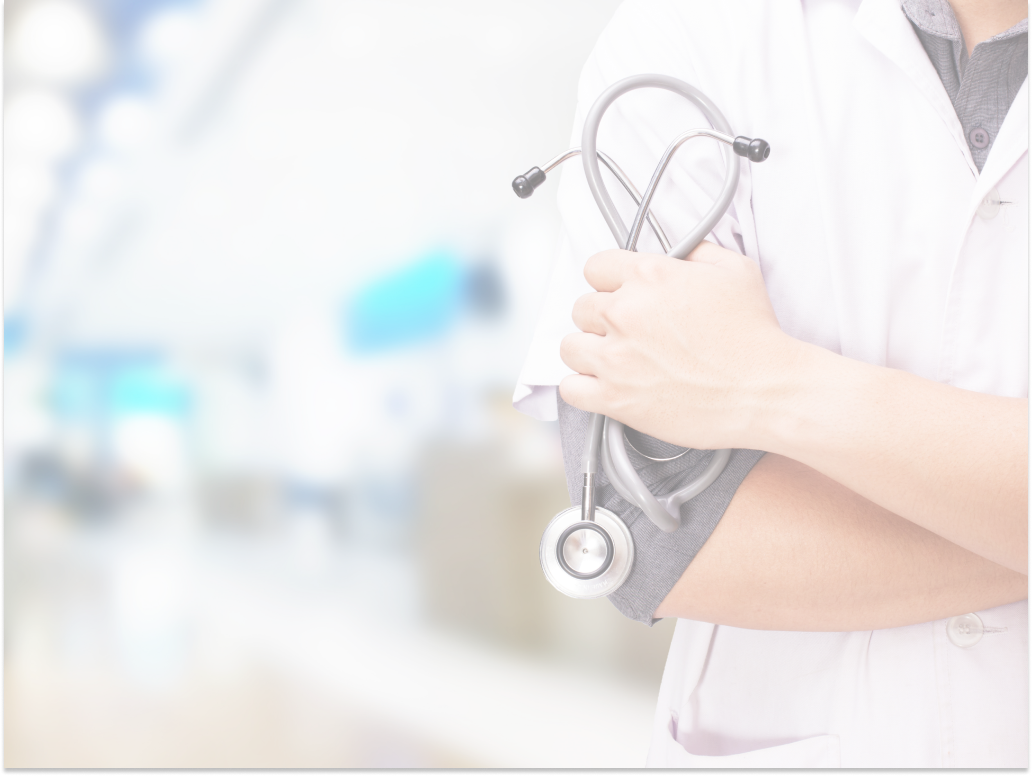
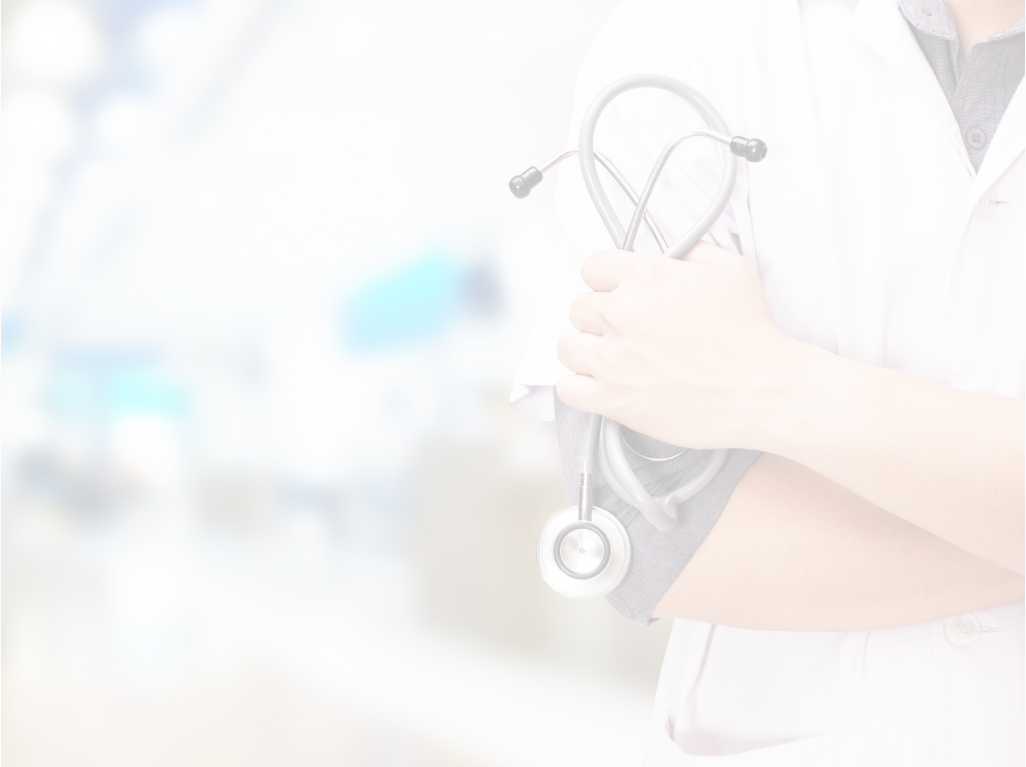
feat: init state home

diff --git a/sucum-web/src/screens/home/home.css b/sucum-web/src/screens/home/home.css
@@ -1,0 +1,142 @@
+.containerHome{
+    z-index: -1;
+    background-position-x: right;
+    height: 100%;
+    position: absolute;
+    left: 50%;
+    width: 50%;
+    height: 100vh;
+    filter: drop-shadow(1px 1px 1px #000);
+    background-image: url('../../assets/background-login.png');
+    background-repeat: no-repeat;
+    background-size: cover;
+    align-items: center;
+    display: flex;
+}
+
+.sectionYellow{
+    z-index: -1;
+    position: absolute;
+    background-color: #D9D9D9;
+    height: 100%;
+    width: 50%;
+}
+
+.navBar{
+    margin-top: 20px;
+    width: 100%;
+    height: 60px;
+    display: flex;
+    background: transparent;
+    position: fixed;
+    z-index: 3;
+}
+
+.iconProfile{
+    position: absolute;
+    width: 150px;
+    height: 40px;
+    margin-right: 10px;
+    background: #ddd;
+    right: 0;
+    display: flex;
+    align-items: center;
+    padding: 5px;
+    gap: 5px;
+    border-radius: 30px;
+}
+.navBarOptions{
+    height: 40px;
+    align-items: center;
+    gap: 20px;
+    display: flex;
+    margin: 0 auto;
+}
+
+.navBarOptions p{
+    font-weight: 600;
+    text-align: left;
+    font-family: sans-serif;
+    font-size: 18px;
+    color: grey;
+}
+
+.iconProfile p{
+    margin-left: 5px;
+    overflow: hidden;
+    text-overflow: ellipsis;
+    width: 100px;
+}
+
+.iconProfile img{
+    width: 40px;
+}
+
+.navBarOptions p.active{
+    color: #044CF6;
+}
+
+.contentText{
+    padding: 60px;
+    width: 40%;
+    position: absolute;
+    height: 400px;
+    margin-top: 5%;
+}
+
+.contentText p{
+    line-height: 40px;
+    text-align: left;
+    font-family: sans-serif;
+    font-size: 24px;
+    color: #044CF6;
+}
+
+.contentText span{
+    display: flex;
+    align-items: center;
+}
+
+.contentText span div{
+    position: absolute;
+    width: 100px;
+    height: 3px;
+    background: yellow;
+    left: -20px;
+}
+
+.contentText span p{
+    margin-left: 40px;
+    font-weight: bold;
+}
+
+.contentText h2{   
+    font-weight: bold;
+    font-size: 32px;
+    font-family: sans-serif;
+    color: #044CF6;
+    margin: 20px 0px 20px 0px;
+}
+
+.contentHelp{
+    left: 40px;
+    width: 50px;
+    height: 50px;
+    background-image: url('../../assets/communication.png');
+    background-repeat: no-repeat;
+    background-size: cover;
+    position: fixed;
+    bottom: 20px;
+}
+.contentHelp:hover{
+    cursor: pointer;
+}
+
+.contentConsultas{
+    margin: 0 auto;
+    position: relative;
+    top: 70%;
+    height: 600px;
+    width: 65%;
+    background: aqua;
+}

diff --git a/sucum-web/src/screens/home/home.js b/sucum-web/src/screens/home/home.js
@@ -1,12 +1,30 @@
 import { isExpired } from "react-jwt";
-import React, { useEffect } from 'react';
+import React, { useEffect, useState } from 'react';
 import { useNavigate } from "react-router-dom";
+import maleIcon from '../../assets/man.png'
+import womanIcon from '../../assets/woman.png'
+import './home.css'
 
 const Home = () => {
   const navigate = useNavigate();
+  const [username, setUsername] = useState('');
+  const [profile, setProfile] = useState('');
+  const [sexo, setSexo] = useState('');
 
   useEffect(() => {
     const token = localStorage.getItem('tokenAuth');
+    const getProfile = localStorage.getItem('profile');
+    const getUsername = localStorage.getItem('username');
+    const getSexo = localStorage.getItem('sexo');
+    if (getSexo != null) {
+      setSexo(getSexo);
+    }
+    if (getProfile != null) {
+      setProfile(getProfile);
+    }
+    if (getUsername != null) {
+      setUsername(getUsername);
+    }
     const expired = isExpired(token);
     if (expired) {
       localStorage.clear();
@@ -15,9 +33,36 @@ const Home = () => {
 }, [navigate])
 
   return (
-    <div>
-      <h2>Home</h2>
-      <p>Welcome to the Home page!</p>
+    <div style={{'height': '100vh'}} >
+      <div className="sectionYellow"></div>
+      <div className="containerHome"></div>
+      <div className="navBar">
+        <div className="navBarOptions">
+          {profile === 'Medico' ? <p>NOVO MEDICO</p> : null}
+          <p className="active">CONSULTAS</p>
+          <p>AGENDAR</p>
+        </div>
+        <div className="iconProfile">
+          <img src={sexo === 'Masculino' ? maleIcon : womanIcon} alt="Icon User"/>
+          <p>{username}</p>
+        </div>
+      </div>
+      <div className="contentText">
+        <span>
+          <div></div>
+          <p>Sobre nós</p>
+        </span>
+        <h2>SUCUM</h2>
+        <p> 
+            Bem-vindo a nossa aplicação de agendamento de consultas! 
+            Com nossa plataforma, você pode facilmente marcar e gerenciar suas 
+            consultas médicas de forma rápida e conveniente. Não importa se você
+            precisa de uma consulta com um médico geral, um especialista ou até
+            mesmo um exame, estamos aqui para ajudar a simplificar o processo. 
+        </p>
+      </div>
+      <section className="contentConsultas"></section>
+      <div className="contentHelp"></div>
     </div>
   );
 };

diff --git a/sucum-api/src/api/controllers/userController.js b/sucum-api/src/api/controllers/userController.js
@@ -23,16 +23,21 @@ export default () => {
 
             getInstanceDB.query(queryLogin, (err, data)=>{
                 if (err) res.status(500).json({messageError: 'Error sql: ' + err.sqlMessage});
+                
                 const result = Object.values(JSON.parse(JSON.stringify(data)));
                 if (result.length > 0) {
                     result.forEach(element => {
-                        if (element.username === username && element.senha === senha) {
+                        if ((element.username === username || element.cpf === username ) && element.senha === senha) {
+                            console.log(element);
                             const token = jwt.sign({ userId: element.id}, secretKey, {
                                 expiresIn: '1h',
                             });
-                           return res.status(200).json({tokenJWT: token, id: result[0].id, username: result[0].username, perfil: result[0].perfil});
-                        }else{
-                            return res.status(401).json({message: "Password invalid"});
+                           return res.status(200).json({tokenJWT: token, 
+                                                        id: result[0].id, 
+                                                        username: result[0].username, 
+                                                        perfil: result[0].perfil, 
+                                                        sexo: result[0].sexo
+                                                       });
                         }
                     });
                 }else{

diff --git a/sucum-api/src/database/utils.js b/sucum-api/src/database/utils.js
@@ -26,7 +26,8 @@ export function queryCreateSupervisorTable(){
             senha VARCHAR(255),
             email VARCHAR(255),
             perfil VARCHAR (255),
-            genero VARCHAR (255),
+            sexo VARCHAR (255),
+            cpf VARCHAR (255),
             areaSupervisao VARCHAR(255)
         )`
 }
@@ -78,10 +79,10 @@ export function queryCreateQuestionarioTable(){
 }
 
 export function checkUserExistLogin(username) {
-    return `SELECT id, username, senha, perfil FROM medico WHERE username = '${username}'
+    return `SELECT id, username, senha, cpf, sexo, perfil FROM medico WHERE username = '${username}' OR cpf = '${username}'
             UNION
-            SELECT id, username, senha, perfil FROM paciente WHERE username = '${username}'
+            SELECT id, username, senha, cpf, sexo, perfil FROM paciente WHERE username = '${username}' OR cpf = '${username}'
             UNION
-            SELECT id, username, senha, perfil FROM supervisor WHERE username = '${username}'
+            SELECT id, username, senha, cpf, sexo, perfil FROM supervisor WHERE username = '${username}' OR cpf = '${username}'
             `
 }

diff --git a/sucum-web/src/screens/login/login.js b/sucum-web/src/screens/login/login.js
@@ -42,7 +42,9 @@ const Login = () => {
                 switch (result.status) {
                     case 200:
                             localStorage.setItem('tokenAuth', result.data.tokenJWT)
-                            localStorage.setItem('perfil', result.data.perfil)
+                            localStorage.setItem('profile', result.data.perfil)
+                            localStorage.setItem('username', result.data.username)
+                            localStorage.setItem('sexo', result.data.sexo)
                             navigate('/');
                             setLabelError('')
                         break;
@@ -76,7 +78,7 @@ const Login = () => {
                             type="text"
                             id="login"
                             value={login}
-                            placeholder='Nome'
+                            placeholder='Nome ou CPF'
                             onChange={handleLoginChange}
                             required
                         />
